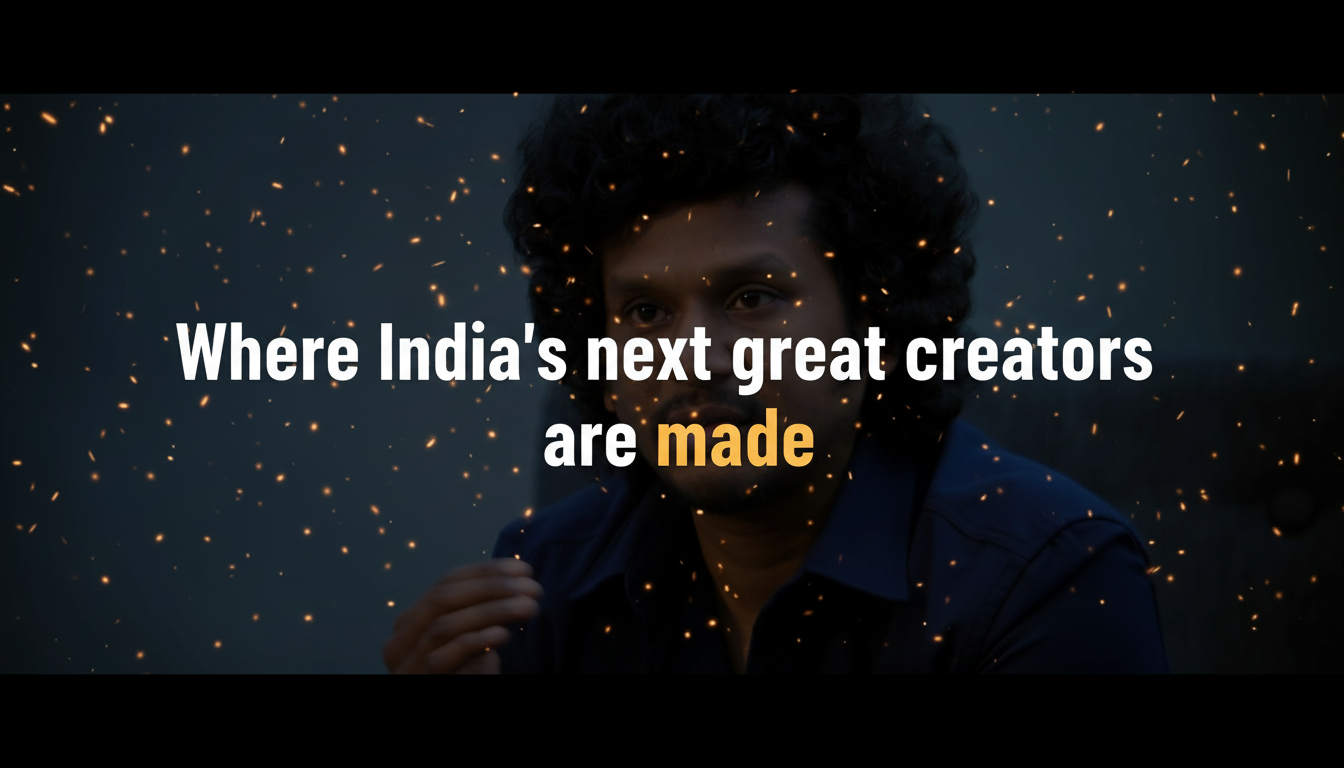
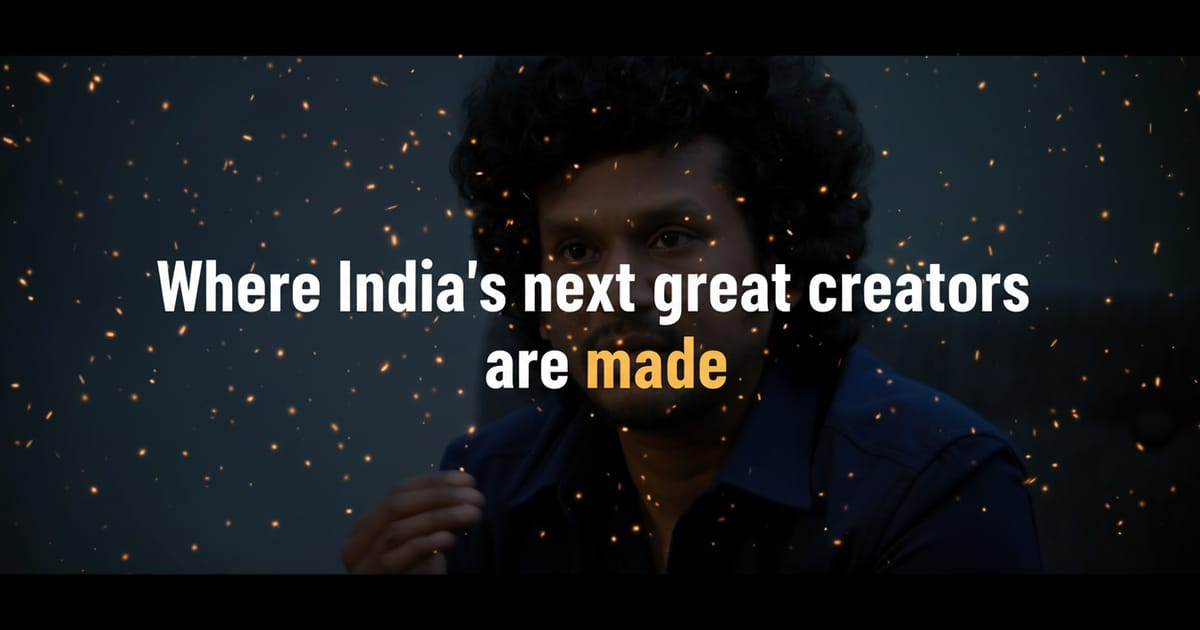
Phase 2 — image + font perf wins
- scripts/optimize-images.mjs: postbuild walker over dist/. PNGs get
  palette+effort-10 compression; JPGs go through mozjpeg q80; both capped
  at 1920px wide. Wired into npm run build between astro build and
  generate-llms-txt. First run: 147 of 165 images rewritten, 60.2 MB
  saved, dist 207 MB → 132 MB.

- public/og-image.jpg: 836 KB → 45 KB (1200×630 cover, q80).

- Self-host fonts. Drop Google Fonts CDN preconnect + stylesheet (3
  blocking requests removed). Three woff2 files in public/fonts/ totalling
  ~50 KB: bebas-neue-400, sora-var, funnel-display-var. Sora and Funnel
  Display are variable fonts; one @font-face per family covers all weights
  via the woff2-variations format. Preload Sora + Funnel as as=font.

- Drop unused @import for Space Mono / DM Sans / Syne from globals.css.

diff --git a/src/styles/globals.css b/src/styles/globals.css
@@ -1,4 +1,27 @@
-@import url('https://fonts.googleapis.com/css2?family=Space+Mono:wght@400;700&family=DM+Sans:wght@400;500;700&family=Syne:wght@400;600;700;800&display=swap');
+/* Self-hosted fonts (latin subset). Variable fonts for Sora + Funnel Display
+   declare one @font-face per weight pointing to the single variable file —
+   browsers pick the correct axis. */
+@font-face {
+  font-family: 'Bebas Neue';
+  font-style: normal;
+  font-weight: 400;
+  font-display: swap;
+  src: url('/fonts/bebas-neue-400.woff2') format('woff2');
+}
+@font-face {
+  font-family: 'Sora';
+  font-style: normal;
+  font-weight: 300 700;
+  font-display: swap;
+  src: url('/fonts/sora-var.woff2') format('woff2-variations');
+}
+@font-face {
+  font-family: 'Funnel Display';
+  font-style: normal;
+  font-weight: 300 800;
+  font-display: swap;
+  src: url('/fonts/funnel-display-var.woff2') format('woff2-variations');
+}
 
 @tailwind base;
 @tailwind components;
